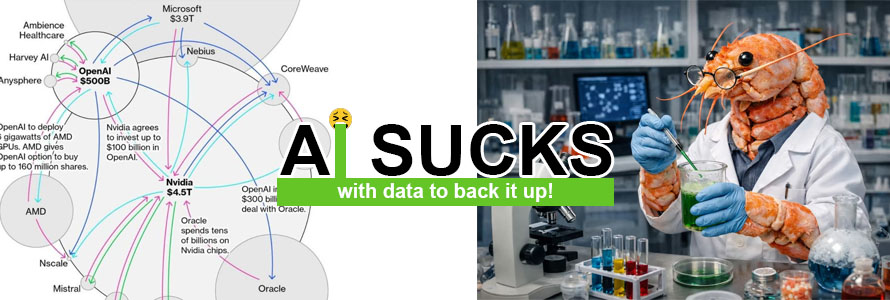
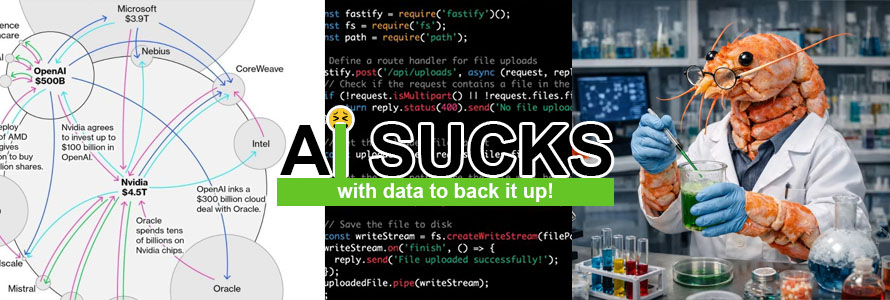
мобильная верстка

diff --git a/css/style.css b/css/style.css
@@ -12,13 +12,21 @@
 	box-shadow: 0 0 8px 0 rgb(128, 128, 128);
 }
 
+@media screen and (max-width: 400px) {
+	.page__content {
+		padding: 1vw;
+	}
+}
+
 .intro {
 	display: block;
+	min-width: 350px;
 	width: 100%;
 	height: 300px;
 	background-image: url('../img/ai-sucks.jpg');
 	background-repeat: no-repeat;
 	background-size: cover;
+	background-position: center;
 	margin-bottom: 1em;
 }
 
